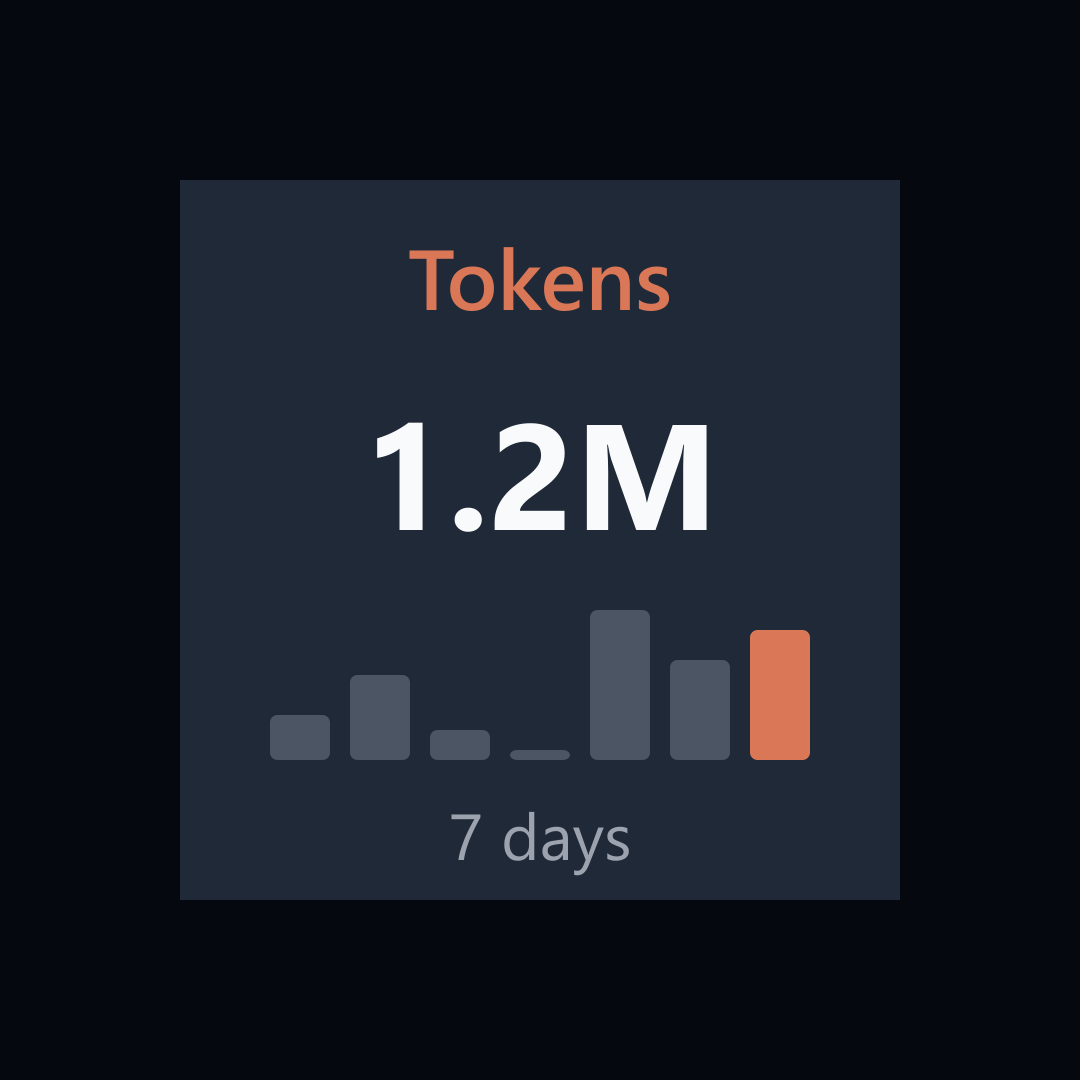
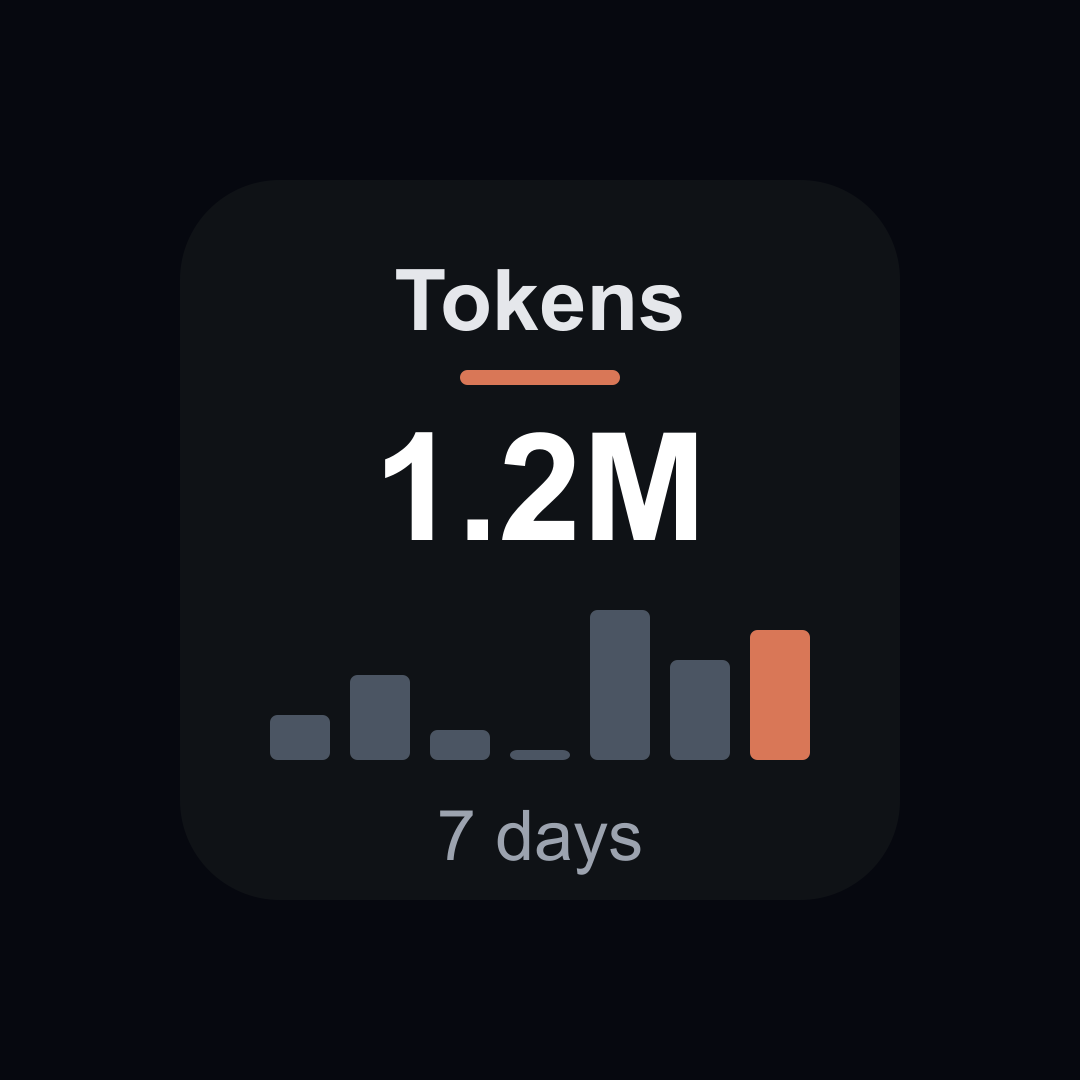
docs: marketplace media for the 1.10 faces, unify chart tile chrome

diff --git a/scripts/make-marketplace.ts b/scripts/make-marketplace.ts
@@ -17,7 +17,7 @@ import { dirname, join } from "node:path";
 import { fileURLToPath } from "node:url";
 import sharp from "sharp";
 
-import { svgKey, svgStat, svgBig, color } from "../src/usage-core";
+import { svgKey, svgStat, svgBig, svgSpark, color } from "../src/usage-core";
 
 const here = dirname(fileURLToPath(import.meta.url));
 const root = join(here, "..");
@@ -46,6 +46,12 @@ const STATS = [
 const CAROUSEL = [
   svgBig({ label: "5 HOURS", pct: 33, note: "2h 14m", col: "#f0abfc", stale: false, face: 0, faces: 2, accent: "#e879f9", icon: "clock", noteCol: "#f5d0fe" }),
   svgBig({ label: "WEEKLY", pct: 61, note: "4d 6h", col: color(61, WARN, CRIT), stale: false, face: 1, faces: 2, accent: "#38bdf8", icon: "calendar", noteCol: "#bae6fd" }),
+];
+// The faces added in 1.10: per-model weekly cap, burn rate, 7-day history chart.
+const NEW_FACES = [
+  svgKey({ label: "Fable", pct: 60, note: "3d 22h", col: color(60, WARN, CRIT), stale: false }),
+  svgStat({ label: "Burn", value: "12%/h", sub: "full ~3h 40m", accent: ACCENT, stale: false }),
+  svgSpark({ label: "Tokens", value: "1.2M", sub: "7 days", bars: [420_000, 810_000, 260_000, 0, 1_400_000, 950_000, 1_200_000], accent: ACCENT, stale: false }),
 ];
 
 /** Strip the key SVG's outer wrapper and place its body at (x,y), scaled. */
@@ -100,7 +106,7 @@ await render(
   [
     text(W / 2, 250, "AI Coding Usage Meter", 78, 800, "#ffffff"),
     text(W / 2, 312, "Live limits, tokens &amp; cost — right on your Stream Deck", 32, 400, MUTED),
-    row([...GAUGES, ...CAROUSEL, ...STATS], 168, 24, 430, W),
+    row([...GAUGES, ...CAROUSEL, ...STATS, NEW_FACES[2]], 168, 24, 430, W),
     text(W / 2, 800, "Windows &amp; macOS   ·   Free &amp; open source   ·   Works with Claude Code", 26, 600, MUTED, 0.5),
   ].join("\n")
 );
@@ -152,7 +158,20 @@ await render(
   [
     text(W / 2, 175, "ONE ACTION", 26, 700, ACCENT, 3),
     text(W / 2, 248, "As many keys as you like", 60, 800, "#ffffff"),
-    row([...GAUGES, ...CAROUSEL, ...STATS], 168, 24, 410, W),
+    row([...GAUGES, ...CAROUSEL, ...STATS, NEW_FACES[2]], 168, 24, 410, W),
     text(W / 2, 800, "All keys share one cached request · tap any key to refresh", 28, 400, MUTED),
+  ].join("\n")
+);
+
+// Gallery 5 — the 1.10 additions.
+await render(
+  "gallery-5.png",
+  W,
+  H,
+  [
+    text(W / 2, 175, "NEW", 26, 700, ACCENT, 3),
+    text(W / 2, 248, "Model caps, burn rate &amp; history", 60, 800, "#ffffff"),
+    row(NEW_FACES, 300, 56, 380, W),
+    text(W / 2, 800, "Per-model weekly limit · %/h with time-to-full · 7-day charts that survive log pruning", 28, 400, MUTED),
   ].join("\n")
 );

diff --git a/src/usage-core.ts b/src/usage-core.ts
@@ -1012,12 +1012,15 @@ export function svgSpark(opts: {
       return `<rect x="${x}" y="${baseY - h}" width="${barW.toFixed(1)}" height="${h}" rx="1.5" fill="${fill}"/>`;
     })
     .join("");
+  // Same tile chrome as svgStat (rounded #0f1216, Arial, accent underline) so a
+  // chart key sits next to a stat key as one family.
   return `<svg xmlns="http://www.w3.org/2000/svg" width="${size}" height="${size}" viewBox="0 0 ${size} ${size}">
-  <rect width="${size}" height="${size}" fill="#1f2937"/>
-  <text x="${cx}" y="26" text-anchor="middle" font-family="Segoe UI, Arial, sans-serif" font-size="17" font-weight="600" fill="${opts.accent}">${esc(opts.label)}</text>
-  <text x="${cx}" y="70" text-anchor="middle" font-family="Segoe UI, Arial, sans-serif" font-size="30" font-weight="700" fill="#f9fafb">${esc(opts.value)}</text>
+  <rect width="${size}" height="${size}" rx="20" fill="#0f1216"/>
+  <text x="${cx}" y="30" text-anchor="middle" font-family="Arial, Helvetica, sans-serif" font-size="17" font-weight="700" fill="#e5e7eb">${esc(opts.label)}</text>
+  <rect x="${cx - 16}" y="38" width="32" height="3" rx="1.5" fill="${opts.accent}"/>
+  <text x="${cx}" y="72" text-anchor="middle" font-family="Arial, Helvetica, sans-serif" font-size="30" font-weight="800" fill="#ffffff">${esc(opts.value)}</text>
   ${bars}
-  <text x="${cx}" y="136" text-anchor="middle" font-family="Segoe UI, Arial, sans-serif" font-size="13" fill="${noteFill}">${esc(opts.sub)}</text>
+  <text x="${cx}" y="136" text-anchor="middle" font-family="Arial, Helvetica, sans-serif" font-size="14" fill="${noteFill}">${esc(opts.sub)}</text>
 </svg>`;
 }
 

diff --git a/com.saeedkolivand.claude-usage.sdPlugin/bin/plugin.js b/com.saeedkolivand.claude-usage.sdPlugin/bin/plugin.js
@@ -17964,11 +17964,12 @@ function svgSpark(opts) {
     return `<rect x="${x}" y="${baseY - h}" width="${barW.toFixed(1)}" height="${h}" rx="1.5" fill="${fill}"/>`;
   }).join("");
   return `<svg xmlns="http://www.w3.org/2000/svg" width="${size}" height="${size}" viewBox="0 0 ${size} ${size}">
-  <rect width="${size}" height="${size}" fill="#1f2937"/>
-  <text x="${cx}" y="26" text-anchor="middle" font-family="Segoe UI, Arial, sans-serif" font-size="17" font-weight="600" fill="${opts.accent}">${esc2(opts.label)}</text>
-  <text x="${cx}" y="70" text-anchor="middle" font-family="Segoe UI, Arial, sans-serif" font-size="30" font-weight="700" fill="#f9fafb">${esc2(opts.value)}</text>
+  <rect width="${size}" height="${size}" rx="20" fill="#0f1216"/>
+  <text x="${cx}" y="30" text-anchor="middle" font-family="Arial, Helvetica, sans-serif" font-size="17" font-weight="700" fill="#e5e7eb">${esc2(opts.label)}</text>
+  <rect x="${cx - 16}" y="38" width="32" height="3" rx="1.5" fill="${opts.accent}"/>
+  <text x="${cx}" y="72" text-anchor="middle" font-family="Arial, Helvetica, sans-serif" font-size="30" font-weight="800" fill="#ffffff">${esc2(opts.value)}</text>
   ${bars}
-  <text x="${cx}" y="136" text-anchor="middle" font-family="Segoe UI, Arial, sans-serif" font-size="13" fill="${noteFill}">${esc2(opts.sub)}</text>
+  <text x="${cx}" y="136" text-anchor="middle" font-family="Arial, Helvetica, sans-serif" font-size="14" fill="${noteFill}">${esc2(opts.sub)}</text>
 </svg>`;
 }
 function iconMarkup(icon, x, y, sizePx, stroke) {
